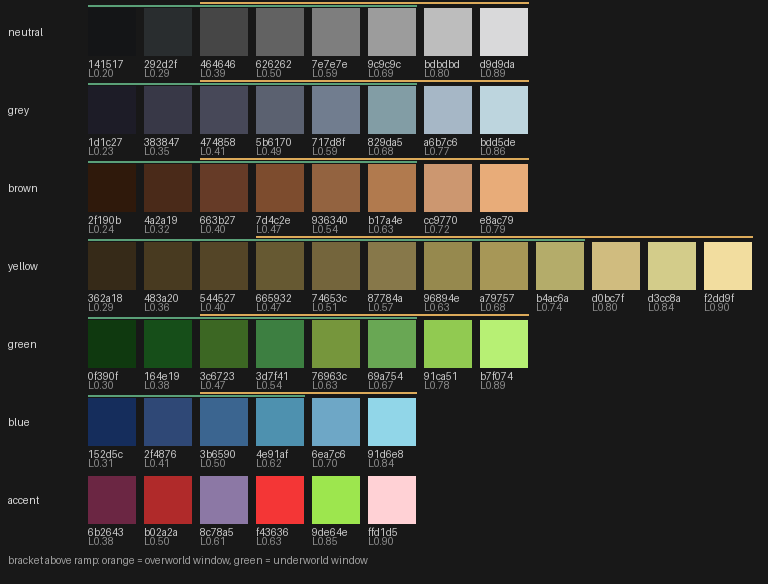
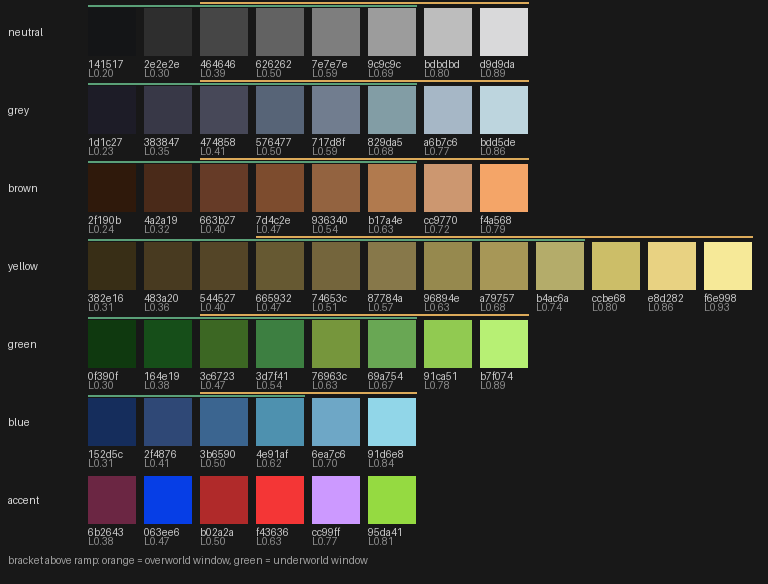
Palette: restore the approved JSON, check in swatch + strip, add --render
Re-running the sampler after assets/ were quantized read the quantized
sheets back and drifted two hexes; the approved palette.json is restored and
the images are now drawn from it (--render) rather than from a fresh sample.

diff --git a/tools/palette_sample.py b/tools/palette_sample.py
@@ -50,6 +50,11 @@ Reports the weighted share of pixels in each family and the quantization
 error the whole corpus would suffer against the proposal (mean OKLab distance
 to the nearest palette entry; 0.02 is about a just-noticeable difference).
 
+Once assets/ has been quantized, a plain re-run samples the quantized sheets
+and drifts the palette by a few hexes - it is no longer the same input. To
+re-derive, point SOURCES at the original sheets (docs/palette.md lists them).
+To redraw the images from the approved JSON without sampling, use --render.
+
 Requires numpy and Pillow. Deterministic for a given input set and config.
 """
 import argparse
@@ -322,6 +327,13 @@ def draw_swatch(ramps, path):
     img.save(path)
 
 
+def write_images(ramps, swatch, strip):
+    draw_swatch(ramps, swatch)
+    rgb = [tuple(c["rgb"]) for r in ramps for c in r["colours"]]
+    Image.frombytes("RGB", (len(rgb), 1), bytes(v for c in rgb for v in c)).save(strip)
+    print(f"wrote {os.path.relpath(swatch, ROOT)} and {os.path.relpath(strip, ROOT)}")
+
+
 # ---- main -----------------------------------------------------------------
 
 def main():
@@ -331,7 +343,15 @@ def main():
     ap.add_argument("--swatch", default=os.path.join(ROOT, "docs", "palette_swatch.png"))
     ap.add_argument("--strip", default=os.path.join(ROOT, "docs", "palette_strip.png"),
                     help="one pixel per colour, ramp by ramp; import into Aseprite/GIMP as a palette")
+    ap.add_argument("--render", action="store_true",
+                    help="skip sampling; redraw the swatch and strip from the existing --out JSON")
     a = ap.parse_args()
+
+    if a.render:
+        with open(a.out) as f:
+            ramps = json.load(f)["ramps"]
+        write_images(ramps, a.swatch, a.strip)
+        return 0
 
     print("sampling")
     hist = sample()

diff --git a/docs/palette.md b/docs/palette.md
@@ -21,7 +21,10 @@ is the acceptance test and must stay at 100 %.
   listed in the "Provenance" section below. To *re-derive* the palette from
   new material (a new pack): add it to `SOURCES` in `palette_sample.py`,
   re-run, and compare the swatch against this one before adopting it — the
-  sampler proposes, it does not decide. Adding an entry is cheap; renumbering
+  sampler proposes, it does not decide. Mind that `assets/` is now quantized:
+  a re-run that samples it reads the palette back and drifts by a few hexes,
+  so a re-derivation must sample the original sheets. To redraw the images
+  from the JSON without sampling: `python tools/palette_sample.py --render`. Adding an entry is cheap; renumbering
   a ramp is not once the §16.6 lighting depends on step indices.
 - **Generated art** (`/generate-asset`, Phase 7): PixelLab takes a forced
   palette, then the result goes through `quantize.py` anyway so the check
